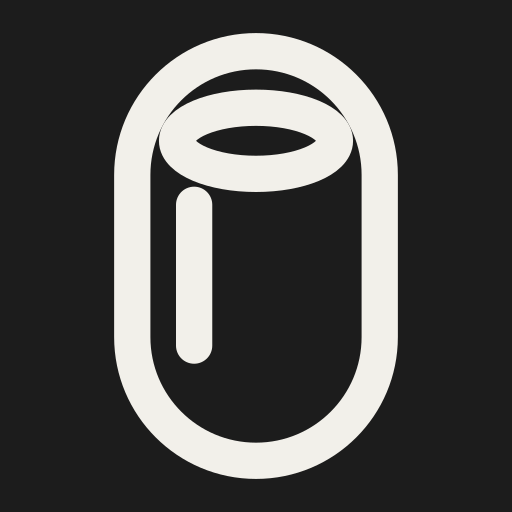
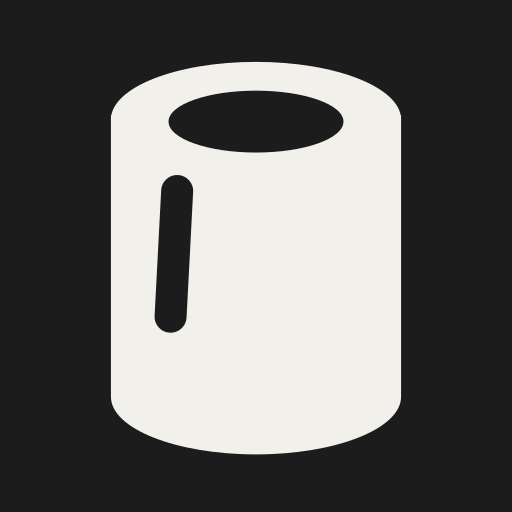
Filled 3/4 cylinder mark — stronger trashcan, not a wireframe pill.

Changed region(s): [[0.2188, 0.1562, 0.7812, 0.9375], [0.2812, 0.0625, 0.7188, 0.3125]]

diff --git a/GpuIcon.qml b/GpuIcon.qml
@@ -1,59 +1,75 @@
 import QtQuick
 import qs.Commons
 
-// Original mark in the Noun-style Mac Pro language: outline cylinder,
-// lid ellipse, one highlight. Theme stroke. Reads at bar size.
+// Filled 3/4 cylinder — 2013 Mac Pro weight, not a wireframe pill.
 Item {
   id: root
 
   property real iconSize: Style.font.icon
   property color color: Color.foreground
   property bool offloadActive: false
+  property color cut: Color.background
 
   width: iconSize
   height: iconSize
   implicitWidth: iconSize
   implicitHeight: iconSize
 
-  readonly property real sw: Math.max(1.4, iconSize * 0.09)
-  readonly property real bw: width * 0.62
-  readonly property real bh: height * 0.86
+  readonly property real bw: width * 0.72
   readonly property real bx: (width - bw) / 2
-  readonly property real by: (height - bh) / 2
-  readonly property real cap: bw * 0.36
+  readonly property real cap: bw * 0.38
+  readonly property real top: height * 0.06
+  readonly property real bodyH: height * 0.70
 
-  // Body outline (stadium / cylinder)
+  // Bottom cap
   Rectangle {
     x: root.bx
-    y: root.by
+    y: root.top + root.bodyH - root.cap * 0.15
     width: root.bw
-    height: root.bh
-    radius: root.bw / 2
-    color: "transparent"
-    border.color: root.color
-    border.width: root.sw
+    height: root.cap
+    radius: height / 2
+    color: root.color
   }
 
-  // Lid ellipse
+  // Body
+  Rectangle {
+    x: root.bx
+    y: root.top + root.cap * 0.42
+    width: root.bw
+    height: root.bodyH - root.cap * 0.20
+    color: root.color
+  }
+
+  // Top cap
+  Rectangle {
+    id: lid
+    x: root.bx
+    y: root.top
+    width: root.bw
+    height: root.cap
+    radius: height / 2
+    color: root.color
+  }
+
+  // Throat of the cylinder
+  Rectangle {
+    x: lid.x + lid.width * 0.18
+    y: lid.y + lid.height * 0.22
+    width: lid.width * 0.64
+    height: lid.height * 0.56
+    radius: height / 2
+    color: root.cut
+  }
+
+  // Specular slash
   Rectangle {
     x: root.bx + root.bw * 0.16
-    y: root.by + root.bh * 0.16
-    width: root.bw * 0.68
-    height: root.cap * 0.72
-    radius: height / 2
-    color: "transparent"
-    border.color: root.color
-    border.width: root.sw
-  }
-
-  // Specular highlight
-  Rectangle {
-    x: root.bx + root.bw * 0.28
-    y: root.by + root.bh * 0.38
-    width: root.sw
-    height: root.bh * 0.34
+    y: root.top + root.cap * 0.85
+    width: Math.max(1.6, root.iconSize * 0.08)
+    height: root.bodyH * 0.48
     radius: width / 2
-    color: root.color
-    opacity: root.offloadActive ? 1 : 0.9
+    color: root.cut
+    opacity: 0.85
+    rotation: 4
   }
 }
